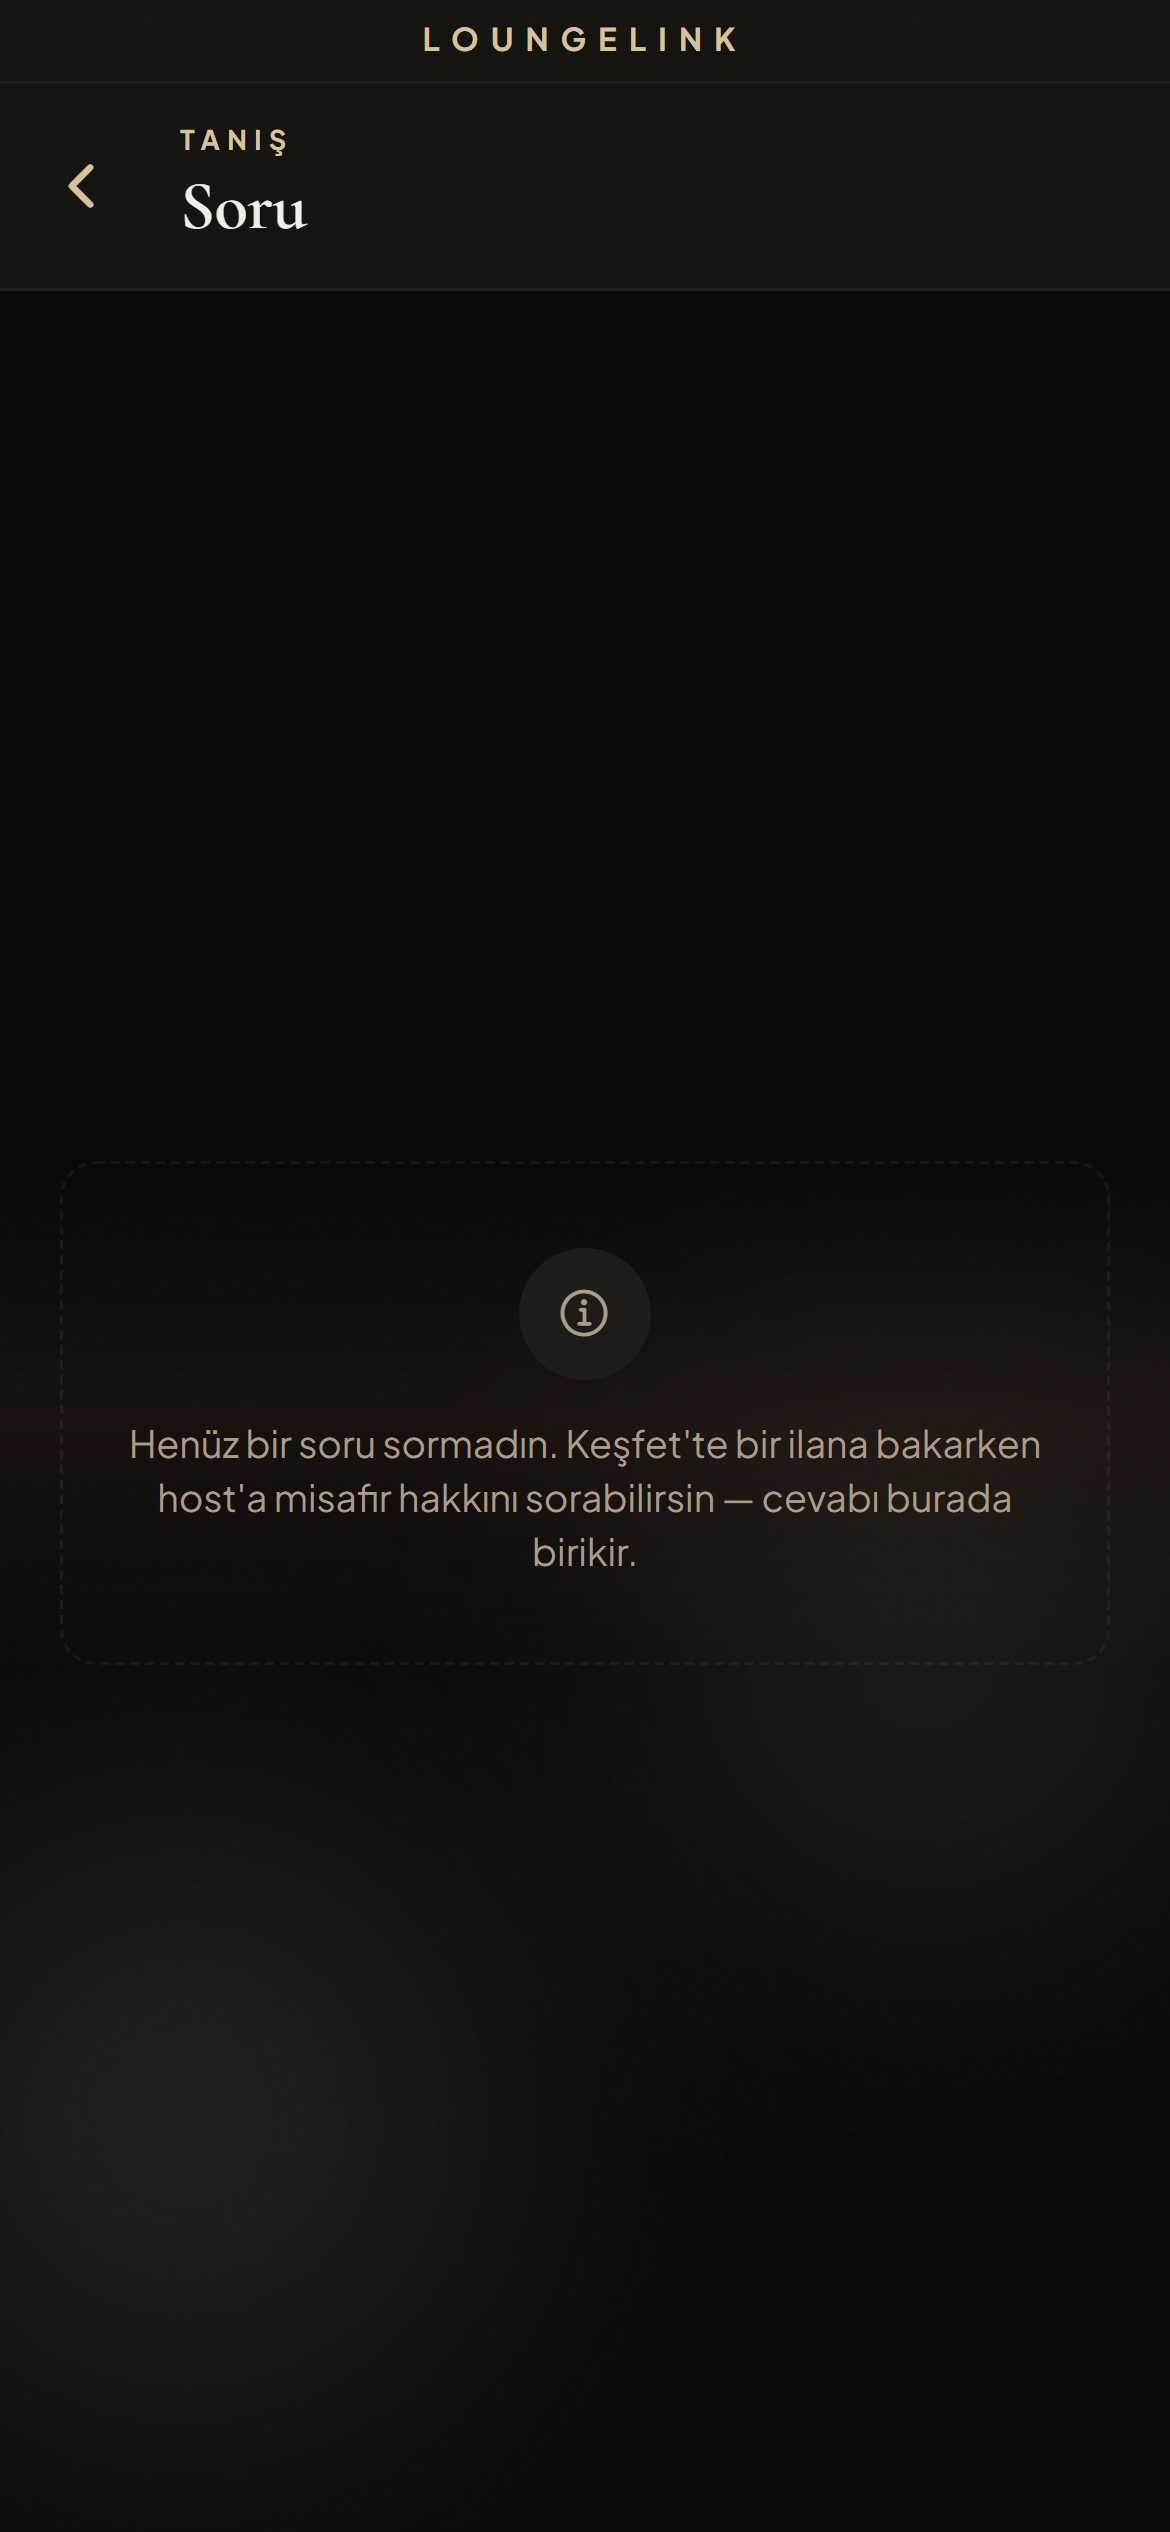
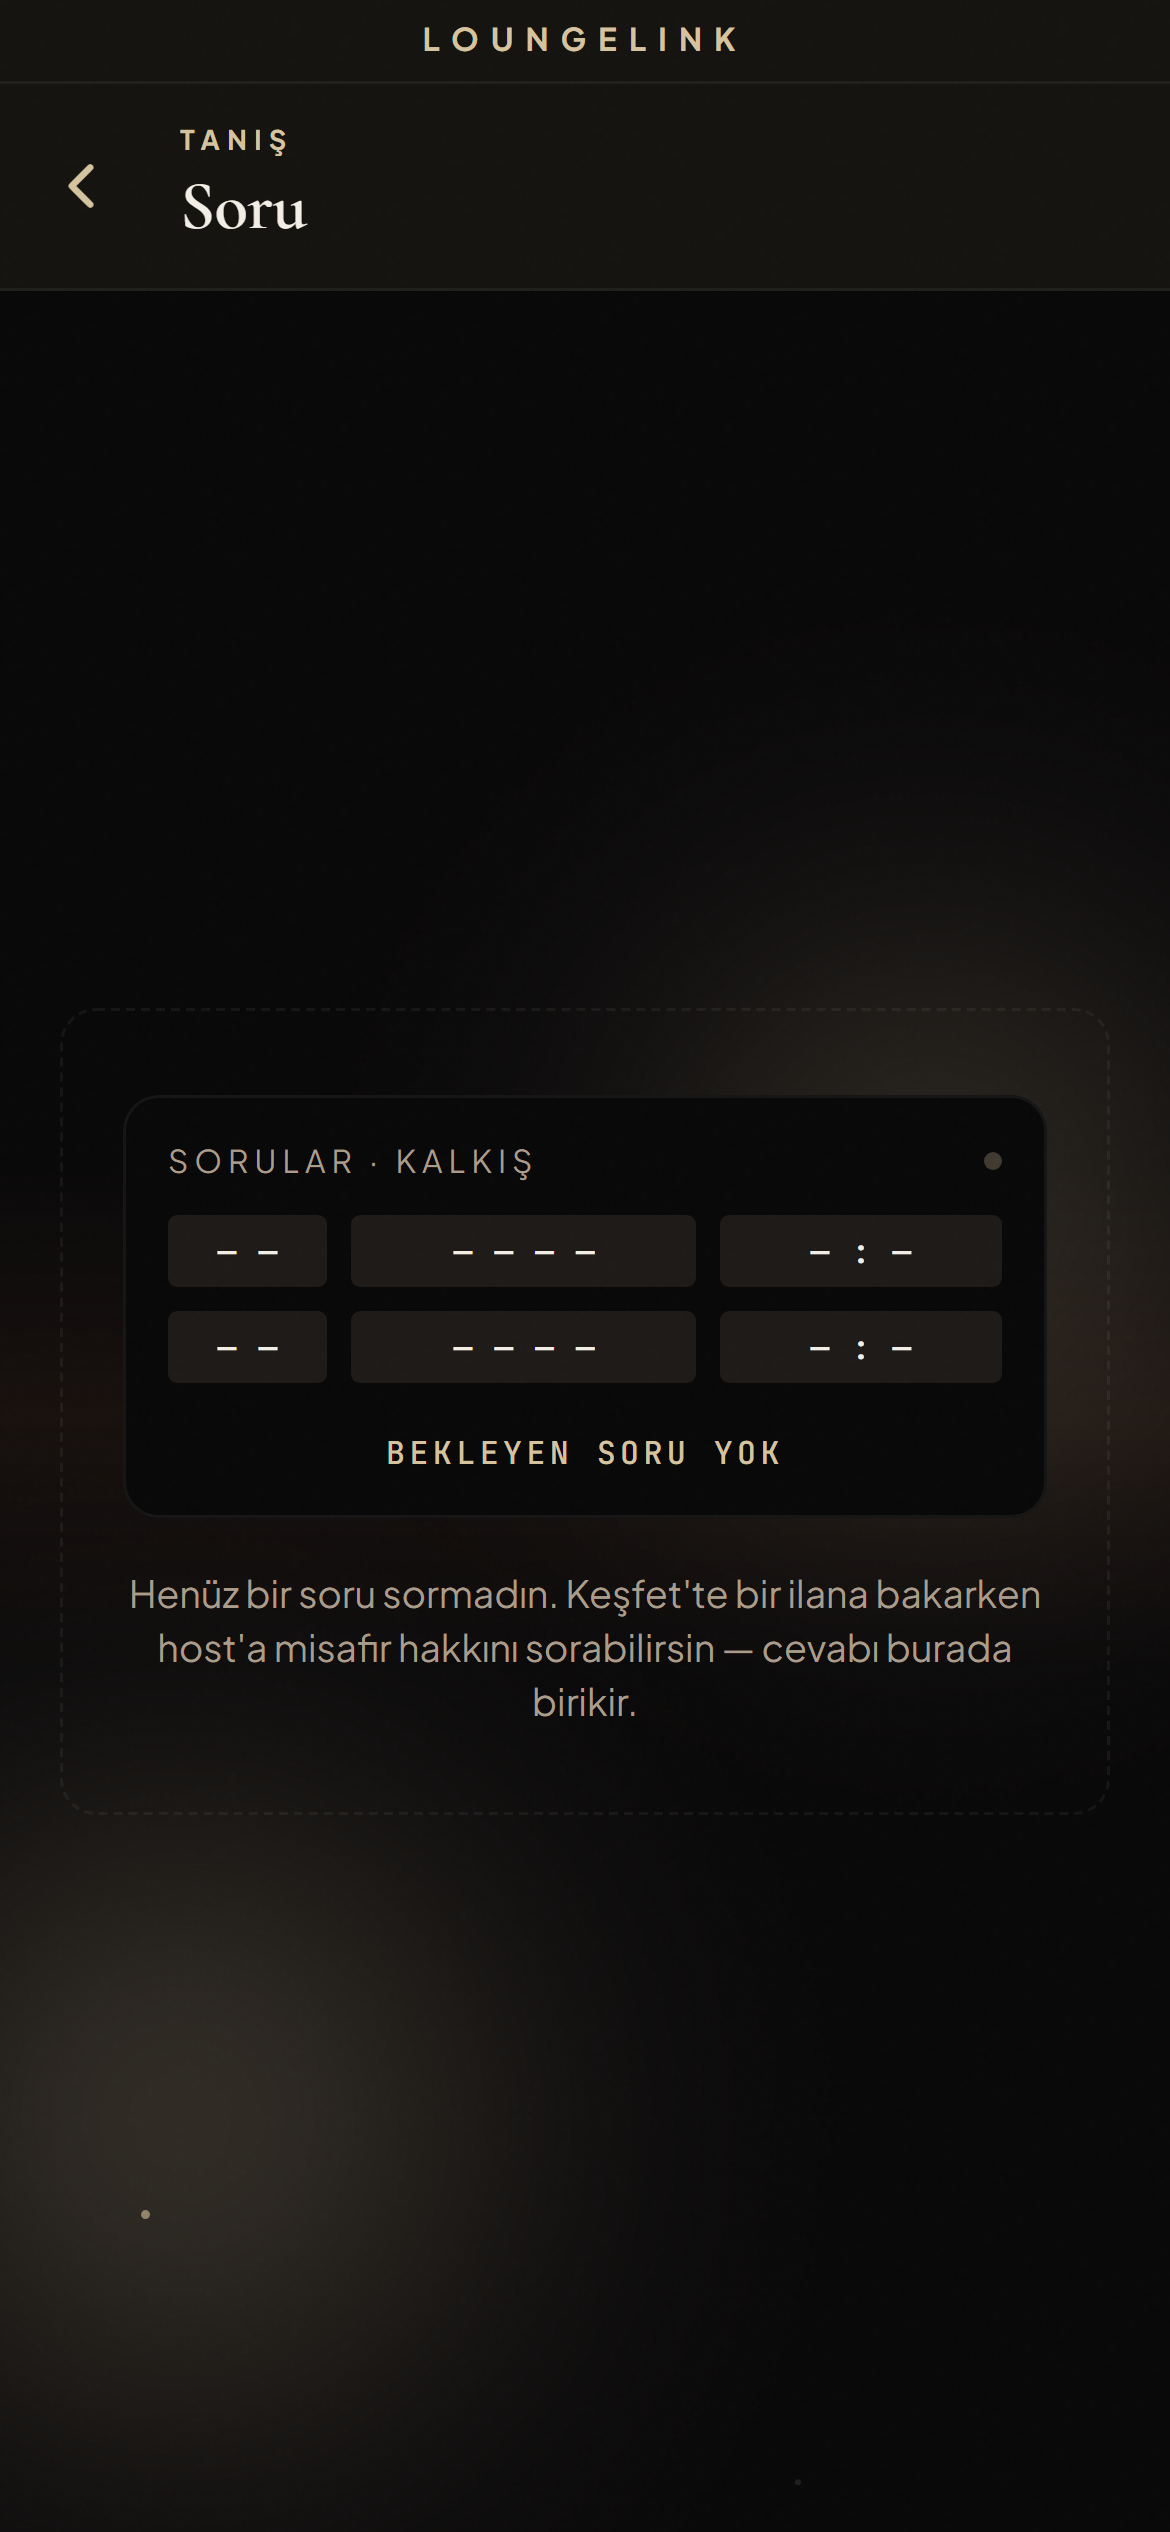
app 6.2.1 (vc 272, build 266) - K9 gorunur + toz zerreleri, K6 sessiz pano
- K9: kartlar bulutu ortuyordu, opaklik 9/12% ayirt edilmiyordu, zerreler hic yoktu.
  Alan %22'den, opaklik 16/20%, 6 toz zerresi. Olcum: bant bolgesi %0 degisim.
- K6: BosDurum pano bicimi (istek, davet, sohbet, soru); TR+EN metinler.
- check temiz, render 73+13+12, 53 ekran, 37/37.

diff --git a/rnapp/src/atmosfer.js b/rnapp/src/atmosfer.js
@@ -192,6 +192,43 @@ const DOKU_KOYU = DOKU.aksam;
 // üretildi — gren_check'in bant kuralını bozmaz.
 // "Hareketi azalt" → bulutlar DURAĞAN; sade mod → hiç yok (üstte döner).
 // ======================================================================
+// 🔴 28 EYLÜL (Gökberk: "K9'daki ışık hareketini göremiyorum") — KOD
+// OKUNDU: katman çiziliyordu ama (1) ekranın alt %60'ı ana sayfada
+// neredeyse tamamen kartlarla kaplı, bulutlar yalnız aralardan
+// görünüyordu; (2) opaklık %9/%12 koyu zeminde ayırt edilmiyordu;
+// (3) onaylı K9'un "arada toz zerreleri yükseliyor" parçası HİÇ
+// YAZILMAMIŞTI. Gökberk'in onayıyla: alan bandın altından (%22) başlar,
+// opaklık %16/%20, altı toz zerresi eklendi. Bant ve kartlar AYNEN.
+const ZERRE = [
+  { x: 0.12, gec: 0,     boy: 3, ton: "gold" },
+  { x: 0.31, gec: 4200,  boy: 2, ton: "ink"  },
+  { x: 0.52, gec: 8100,  boy: 3, ton: "gold" },
+  { x: 0.68, gec: 1900,  boy: 2, ton: "ink"  },
+  { x: 0.83, gec: 6300,  boy: 3, ton: "gold" },
+  { x: 0.44, gec: 10200, boy: 2, ton: "ink"  },
+];
+function TozZerresi({ x, gec, boy, ton, G, Y }) {
+  const az = useAzHareket();
+  const p = useRef(new Animated.Value(az ? 0.5 : 0)).current;
+  useEffect(() => {
+    if (az) { p.setValue(0.5); return undefined; }
+    const d = Animated.sequence([
+      Animated.delay(gec),
+      Animated.loop(Animated.timing(p, { toValue: 1, duration: 12000, easing: Easing.linear, useNativeDriver: true })),
+    ]);
+    d.start();
+    return () => d.stop();
+  }, [az]);
+  return (
+    <Animated.View style={{
+      position: "absolute", left: G * x, bottom: 0, width: boy, height: boy, borderRadius: boy,
+      backgroundColor: ton === "gold" ? C.gold : C.ink,
+      opacity: az ? 0.35 : p.interpolate({ inputRange: [0, 0.2, 0.75, 1], outputRange: [0, 0.7, 0.45, 0] }),
+      transform: [{ translateY: p.interpolate({ inputRange: [0, 1], outputRange: [0, -Y * 0.85] }) }],
+    }} />
+  );
+}
+
 const ISIK_BULUTU = require("../assets/isik_bulutu.png");
 function IsikBulutlari() {
   const az = useAzHareket();
@@ -210,19 +247,21 @@ function IsikBulutlari() {
     a.start(); b.start();
     return () => { a.stop(); b.stop(); };
   }, [az]);
-  const G = Dimensions.get("window").width;
+  const { width: G, height: H } = Dimensions.get("window");
+  const Y = H * 0.78; // katmanın yüksekliği (%22 → alt)
   return (
-    <View pointerEvents="none" style={{ position: "absolute", left: 0, right: 0, top: "40%", bottom: 0, overflow: "hidden" }}>
+    <View pointerEvents="none" style={{ position: "absolute", left: 0, right: 0, top: "22%", bottom: 0, overflow: "hidden" }}>
       <Animated.Image source={ISIK_BULUTU} resizeMode="stretch" tintColor={C.gold}
         style={{ position: "absolute", width: G * 1.3, height: G * 1.3, right: -G * 0.45, top: -G * 0.1,
-                 opacity: 0.09,
+                 opacity: 0.16,
                  transform: [{ translateX: v.interpolate({ inputRange: [0, 1], outputRange: [0, -G * 0.18] }) },
                              { translateY: v.interpolate({ inputRange: [0, 1], outputRange: [0, G * 0.12] }) }] }} />
       <Animated.Image source={ISIK_BULUTU} resizeMode="stretch" tintColor={C.purple}
         style={{ position: "absolute", width: G * 1.4, height: G * 1.4, left: -G * 0.55, bottom: -G * 0.35,
-                 opacity: 0.12,
+                 opacity: 0.2,
                  transform: [{ translateX: w.interpolate({ inputRange: [0, 1], outputRange: [0, G * 0.2] }) },
                              { translateY: w.interpolate({ inputRange: [0, 1], outputRange: [0, -G * 0.15] }) }] }} />
+      {ZERRE.map((z, i) => <TozZerresi key={i} {...z} G={G} Y={Y} />)}
     </View>
   );
 }

diff --git a/rnapp/src/hareket.js b/rnapp/src/hareket.js
@@ -400,3 +400,73 @@ export function AcilisIsigi({ g, y }) {
     </View>
   );
 }
+
+// ============================================================================
+// K6 · SESSİZ PANO — boş durumlar (istek · davet · sohbet · soru)
+// 28 Eylül · Gökberk: "K6'yı da yapalım". Onaylı önizleme: boş ekran bir
+// kalkış panosu; satırlar tire, arada bir hücre döner (4 sn döngü, dönüş
+// ~50 ms), köşede tek altın ışık yanıp söner. Dört boş durumda AYNI dil,
+// yalnız başlık/durum satırı değişir. Metin ve düğme BosDurum'un kendisi.
+// "Hareketi azalt" → durağan pano, ışık sabit.
+// ============================================================================
+const PANO_HUCRE = [
+  { oran: 40, yazi: "— —",     gec: 0 },
+  { oran: 86, yazi: "— — — —", gec: 250 },
+  { oran: 70, yazi: "— : —",   gec: 500 },
+];
+function PanoHucresi({ oran, yazi, gec }) {
+  const az = useAzHareket();
+  const v = useRef(new Animated.Value(0)).current;
+  useEffect(() => {
+    if (az) return undefined;
+    const d = Animated.sequence([
+      Animated.delay(gec),
+      Animated.loop(Animated.timing(v, { toValue: 1, duration: 4000, easing: Easing.linear, useNativeDriver: true })),
+    ]);
+    d.start();
+    return () => d.stop();
+  }, [az]);
+  return (
+    <Animated.View style={{
+      flex: oran, height: 24, borderRadius: 3, backgroundColor: C.bgAlt,
+      alignItems: "center", justifyContent: "center",
+      opacity: az ? 1 : v.interpolate({ inputRange: [0, 0.7, 0.71, 0.725, 1], outputRange: [1, 1, 0.2, 1, 1] }),
+    }}>
+      <Text style={{ fontFamily: MONO[500], fontSize: FS.xs, color: C.ink, letterSpacing: 0.5 }}>{yazi}</Text>
+    </Animated.View>
+  );
+}
+
+export function SessizPano({ baslik, durum }) {
+  const az = useAzHareket();
+  const isik = useRef(new Animated.Value(0)).current;
+  useEffect(() => {
+    if (az) return undefined;
+    const d = Animated.loop(Animated.sequence([
+      Animated.timing(isik, { toValue: 1, duration: 1200, easing: Easing.inOut(Easing.sin), useNativeDriver: true }),
+      Animated.timing(isik, { toValue: 0, duration: 1200, easing: Easing.inOut(Easing.sin), useNativeDriver: true }),
+    ]));
+    d.start();
+    return () => d.stop();
+  }, [az]);
+  const satir = (k) => (
+    <View key={k} style={{ flexDirection: "row", gap: SP[2], marginTop: k ? SP[2] : 0 }}>
+      {PANO_HUCRE.map((h, i) => <PanoHucresi key={i} {...h} gec={h.gec + k * 250} />)}
+    </View>
+  );
+  return (
+    <View accessible accessibilityLabel={durum}
+      style={{ alignSelf: "stretch", borderRadius: R.sm, borderWidth: 1, borderColor: C.line,
+               backgroundColor: C.bg, padding: ARA[14], marginBottom: SP[4] }}>
+      <View style={{ flexDirection: "row", alignItems: "center", justifyContent: "space-between", marginBottom: SP[3] }}>
+        <Text style={{ fontSize: FS.xs, color: C.muted, letterSpacing: 2 }}>{baslik}</Text>
+        <Animated.View style={{ width: 6, height: 6, borderRadius: R.full, backgroundColor: C.gold,
+                                opacity: az ? 1 : isik.interpolate({ inputRange: [0, 1], outputRange: [0.25, 1] }) }} />
+      </View>
+      {satir(0)}
+      {satir(1)}
+      <Text style={{ fontFamily: MONO[500], fontSize: FS.xs, color: C.goldText, letterSpacing: 1.5,
+                     textAlign: "center", marginTop: SP[4] }}>{durum}</Text>
+    </View>
+  );
+}

diff --git a/rnapp/src/ui.js b/rnapp/src/ui.js
@@ -18,6 +18,7 @@ import { View, Text, TextInput, TouchableOpacity, ScrollView, StatusBar, Platfor
 import { ARA, ELEV, BTN as BOY, C, F, FS, R, SATIR, SP, T, TAP, temaYenidenKur, temaModu } from "./theme";
 import { MONO } from "./typography";
 import { Atmosfer } from "./atmosfer";
+import { SessizPano } from "./hareket";   // K6 · boş durum panosu
 import { Ikon } from "./ikon";
 import { Katman } from "./katman";
 
@@ -2870,17 +2871,22 @@ export function GirisSahnesi({ ustBilgi, baslik, sag, children, yaprakUst = 0 })
 // yok", "Eşleşme yok"). Bu bileşen bir `eylem` slotu taşıyor — çünkü
 // boş bir ekranın işi, orayı doldurmanın yolunu göstermektir.
 // ============================================================================
-export function BosDurum({ ikon, baslik, metin, eylem, sikisik = false, ortala = false }) {
+// v6.2.1 · K6 (Gökberk: "K6'yı da yapalım") — `pano={{ baslik, durum }}`
+// verilirse ikon dairesi yerine SESSİZ PANO çizilir (hareket.js).
+// Metin, başlık ve eylem aynen kalır: dört boş durumda tek dil.
+export function BosDurum({ ikon, baslik, metin, eylem, sikisik = false, ortala = false, pano }) {
   return (
     <View style={{
       // v6.1 (Gökberk md.a) — tam ekran boş durum ekranın ORTASINDA durur;
       // üstte yapışık bir kutu "yarım yüklenmiş" gibi okunuyordu.
       ...(ortala ? { marginVertical: "auto" } : null),
       alignItems: "center", paddingVertical: sikisik ? 20 : 28, paddingHorizontal: ARA[20],
-      borderWidth: 1, borderColor: C.line, borderStyle: "dashed", borderRadius: R.sm,
+      // K6: pano kendi çerçevesi — kesikli çerçeveyle çift çerçeve olmasın.
+      borderWidth: pano ? 0 : 1, borderColor: C.line, borderStyle: "dashed", borderRadius: R.sm,
       backgroundColor: "transparent",
     }}>
-      {!!ikon && (
+      {!!pano && <SessizPano baslik={pano.baslik} durum={pano.durum} />}
+      {!!ikon && !pano && (
         <View style={{
           // 🔴 `borderRadius: 22` YAZMIYORUM. 44/2 elle hesaplanmış bir
           // daire, boyut değiştiği gün sessizce yumurtaya döner — ve

diff --git a/rnapp/src/i18n.js b/rnapp/src/i18n.js
@@ -308,6 +308,11 @@ export const D = {
     flowChatsTitle: "Sohbetlerim",
     flowChatsEmpty: "Henüz bir bağlantın yok. Tanış sekmesinden birine bağlantı isteği gönderebilirsin.",
     questionsEmpty: "Henüz bir soru sormadın. Keşfet'te bir ilana bakarken host'a misafir hakkını sorabilirsin — cevabı burada birikir.",
+    // v6.2.1 · K6 sessiz pano — başlık ve durum satırları
+    panoIstekBas: "İSTEKLER · KALKIŞ", panoIstekDurum: "BEKLEYEN İSTEK YOK",
+    panoDavetBas: "DAVETLER · KALKIŞ", panoDavetDurum: "BEKLEYEN DAVET YOK",
+    panoSohbetBas: "SOHBETLER · KALKIŞ", panoSohbetDurum: "AÇIK SOHBET YOK",
+    panoSoruBas: "SORULAR · KALKIŞ", panoSoruDurum: "BEKLEYEN SORU YOK",
     avPickAirport: "Havalimanı seç",
     avFixDate: "Tarihi tamamla (YYYY-AA-GG)",
     pushDeniedGoSettings: "Bildirim izni kapalı ve telefon bir daha soramıyor. Ayarlardan açman gerekiyor.",
@@ -2430,6 +2435,11 @@ export const D = {
     flowChatsTitle: "My chats",
     flowChatsEmpty: "No connections yet. Send someone a connection request from the Meet tab.",
     questionsEmpty: "You haven't asked anything yet. While browsing a listing in Discover you can ask the host about their guest allowance — the answers collect here.",
+    // v6.2.1 · K6 quiet board — header and status lines
+    panoIstekBas: "REQUESTS · DEPARTURES", panoIstekDurum: "NO PENDING REQUESTS",
+    panoDavetBas: "INVITES · DEPARTURES", panoDavetDurum: "NO PENDING INVITES",
+    panoSohbetBas: "CHATS · DEPARTURES", panoSohbetDurum: "NO OPEN CHATS",
+    panoSoruBas: "QUESTIONS · DEPARTURES", panoSoruDurum: "NO PENDING QUESTIONS",
     avPickAirport: "Pick an airport",
     avFixDate: "Complete the date (YYYY-MM-DD)",
     pushDeniedGoSettings: "Notifications are off and your phone won't ask again. You'll need to turn them on in Settings.",

diff --git a/rnapp/src/ekranlar_yalin.js b/rnapp/src/ekranlar_yalin.js
@@ -231,7 +231,7 @@ export function RequestsPanel({ t, session, onOpenChat, onOpenProfile, lang, aci
   // ══════════════════════════════════════════════════════════════════
   if (!inc.length && !sent.length) {
     if (!tamEkran) return null;
-    return <BosDurum ikon="bekliyor" metin={t.flowRequestsEmpty} ortala />;
+    return <BosDurum ikon="bekliyor" metin={t.flowRequestsEmpty} ortala pano={{ baslik: t.panoIstekBas, durum: t.panoIstekDurum }} />;
   }
   const bekleyen = inc.filter(r => r.status === "pending").length;
   // 🔴 v2.95 (Gökberk madde 2) — "'X gönderdiğin' yerine 'Gönderdiğin X
@@ -3621,7 +3621,7 @@ export function MyQuestions({ t, lang, onOpenProfile, onOpenCompanion, onIlanaGi
       <Sayfa>
         <Hdr t={t} ustBilgi={t.sceneMeet} title={t.flowQuestions} onBack={onBack} />
         <View style={{ flex: 1, justifyContent: "center", padding: ARA[20] }}>
-          <BosDurum ikon="bilgi" metin={t.questionsEmpty} />
+          <BosDurum ikon="bilgi" metin={t.questionsEmpty} pano={{ baslik: t.panoSoruBas, durum: t.panoSoruDurum }} />
         </View>
       </Sayfa>
     );

diff --git a/rnapp/src/ekranlar_ana.js b/rnapp/src/ekranlar_ana.js
@@ -4902,7 +4902,7 @@ export function ActionNeeded({ t, lang, onRefresh, onOpenChat, onOpenLoungeChat,
   // `RequestsPanel` · md.3).
   if (!items.length) {
     if (!tamEkran) return null;
-    return kabulBolumu || <BosDurum ikon="eposta" metin={t.flowInvitesEmpty} ortala />;
+    return kabulBolumu || <BosDurum ikon="eposta" metin={t.flowInvitesEmpty} ortala pano={{ baslik: t.panoDavetBas, durum: t.panoDavetDurum }} />;
   }
   return (
     /* 5 Eylül — ÖLÇÜLDÜ (web sahne 11): başlık "BUGÜN" kartının alt
@@ -6536,7 +6536,7 @@ export function HomeConnections({ t, session, onOpenChat, tamEkran, tazele }) {
   );
   if (rows === null || !rows.length) {
     if (!tamEkran) return null;
-    return <BosDurum ikon="kisiler" metin={t.flowChatsEmpty} ortala />;
+    return <BosDurum ikon="kisiler" metin={t.flowChatsEmpty} ortala pano={{ baslik: t.panoSohbetBas, durum: t.panoSohbetDurum }} />;
   }
   // Tam ekranda katlamak anlamsız: ekranın TEK işi bu liste.
   if (tamEkran) return (

diff --git a/rnapp/site_ekran_tazele.py b/rnapp/site_ekran_tazele.py
@@ -108,6 +108,9 @@ ESLESME = [
     # TÜKETİCİ ESKİ ÇIKTIYI DİSKTEN OKUMAYA DEVAM EDER — VE HİÇBİR
     # ŞEY HATA VERMEZ."
     ("ss-bildirim.jpg", "10_bildirim", "Bildirimler — akış tek yerde"),
+    # 28 Eylül · site 0.69 (Gökberk: "Milleri topladın…" yanında eşleştiniz
+    # ekranı) — 6.2'nin K5 "kapı aralanır" anı: kemerin altında iki koltuk.
+    ("ss-eslesti.jpg", "60_vitrin_kapi", "Eşleştiniz — kapı aralanır, yanındaki koltuk dolar"),
 ]
 
 TANITIM_ESLESME = [("hero-phones.jpg", "web_hero.png"),
